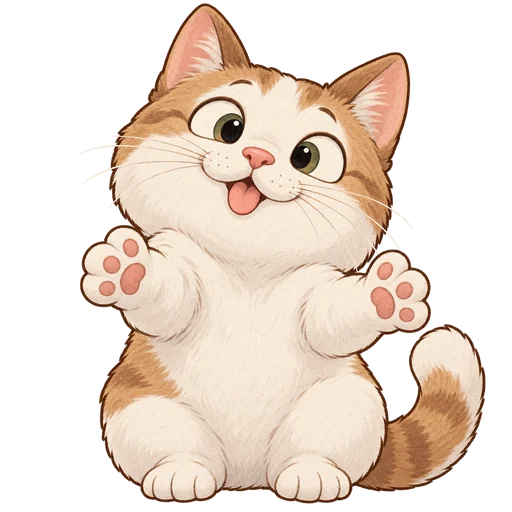
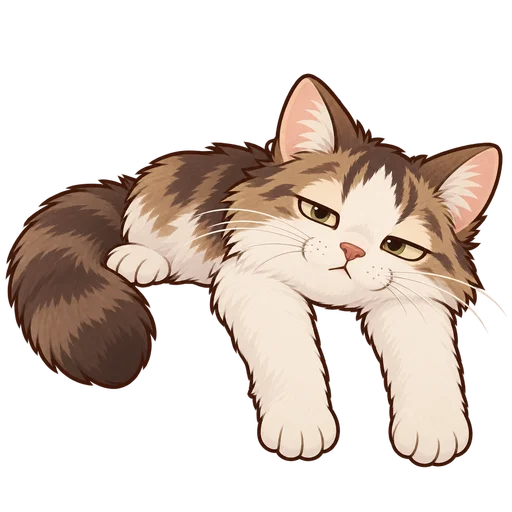
fix(art): give Mario a relaxed dangling-paws pose

diff --git a/docs/assets-v05.md b/docs/assets-v05.md
@@ -5,7 +5,7 @@ Six original character illustrations were generated with the built-in image gene
 - Runtime assets: `public/art/companions/{id}.webp`.
 - Final generation prompts: [companion-art-prompts.json](companion-art-prompts.json).
 - Each character is 512 × 512 with transparent alpha. The bundled Sharp library was used only for delivery resizing and WebP encoding (quality85, alpha100). No new project dependency.
-- Combined compressed size: **341,084 bytes**. All six are local and available offline.
+- Combined compressed size: **327,444 bytes**. All six are local and available offline.
 - The same artwork is used in collection cards and the workshop. The latter is a camera-facing Three.js Sprite over the existing 3D cushion; workers remain procedural 3D cats.
 - Only the currently selected portrait owns a GPU texture. Changing selection releases the old texture. Stale asynchronous loads cannot replace a newer selection, and the controller disposes its texture/material on teardown.
 - Unavailable/locked companions never show on the cushion. Loading or failed portraits remain hidden instead of displaying stale art. The HTML collection and its bonuses do not depend on WebGL rendering.
@@ -19,3 +19,7 @@ The later photograph supplied by the user shows a fluffy brown/grey tabby with d
 ## Kira personal reference and final pose — 25 September 2026
 
 The user's personal photograph is the likeness reference: brown/grey tabby stripes, tall ears, light cream chest and dark fluffy tail. The final sprite follows the user's revised direction: a cute simplified 2D chibi cartoon, body seated in three-quarter view with her head turned back toward the camera as if she heard something annoying, both front paws grounded, and a restrained downturned deadpan mouth. The famous Grumpy Cat expression informs the mood, not the coat or identity. Her photo is not redistributed. This is an art-only change; gameplay, bonuses, unlocks and saves are untouched.
+
+## Mario lazy-pose portrait — 25 September 2026
+
+Mario now follows the user's photograph: a fluffy white-and-muted-brown/grey tabby with a broad white blaze, cheeks, chest and paws and a dark fluffy tail. His new sprite sprawls belly-down over an invisible support with both front legs dangling loose; the half-lidded, closed-mouth expression keeps the "what a bother" joke in body language rather than an exaggerated grin or crossed eyes. It uses Kira's simplified 2D chibi style. The personal reference photograph is not redistributed. This is an art-only replacement; no bonus, unlock, ID, gameplay or save data changed.

diff --git a/README.md b/README.md
@@ -16,7 +16,7 @@ No package installation or internet connection is needed to play the included bu
 - The selected unlocked companion appears on the workshop's 3D cushion. A new game leaves it empty. **Only the selected companion grants a bonus**; collecting more cats does not stack buffs.
 - Harder permanent challenges span tapping, crew growth, upgrades, offline production, and restarts. Collection cards show requirements, progress, and each bonus in English and Spanish.
 - Existing earned companions and their selection remain unlocked at the same save indices. New conditions apply to companions not already earned; no player progress is confiscated.
-- Six local transparent illustrations add 341,084 bytes. No new runtime dependency, account, download-at-playtime, or monetization was added.
+- Six local transparent illustrations add 327,444 bytes. No new runtime dependency, account, download-at-playtime, or monetization was added.
 
 | Companion | Unlock challenge | Selected bonus |
 | --- | --- | --- |
